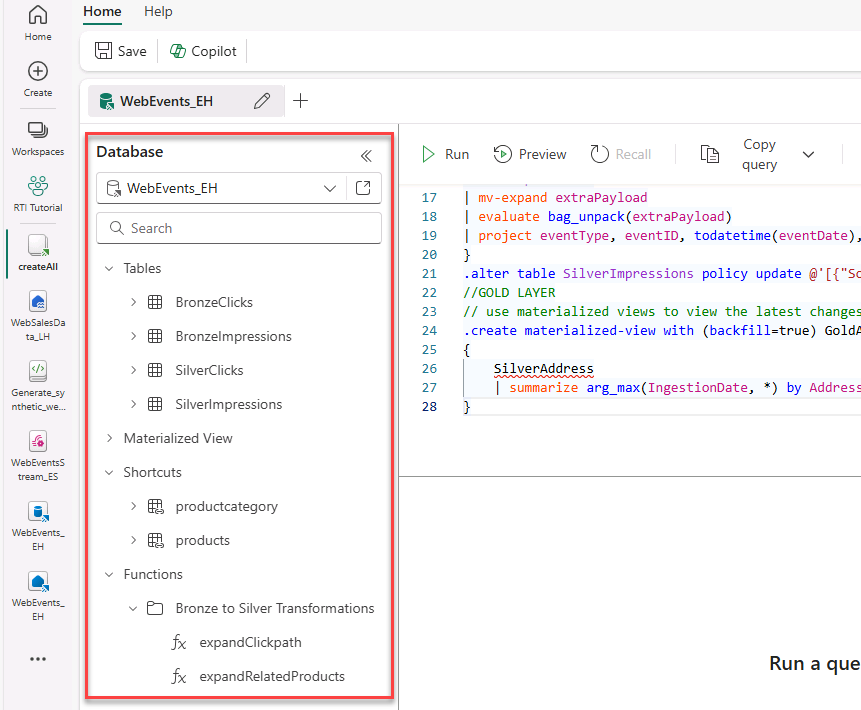
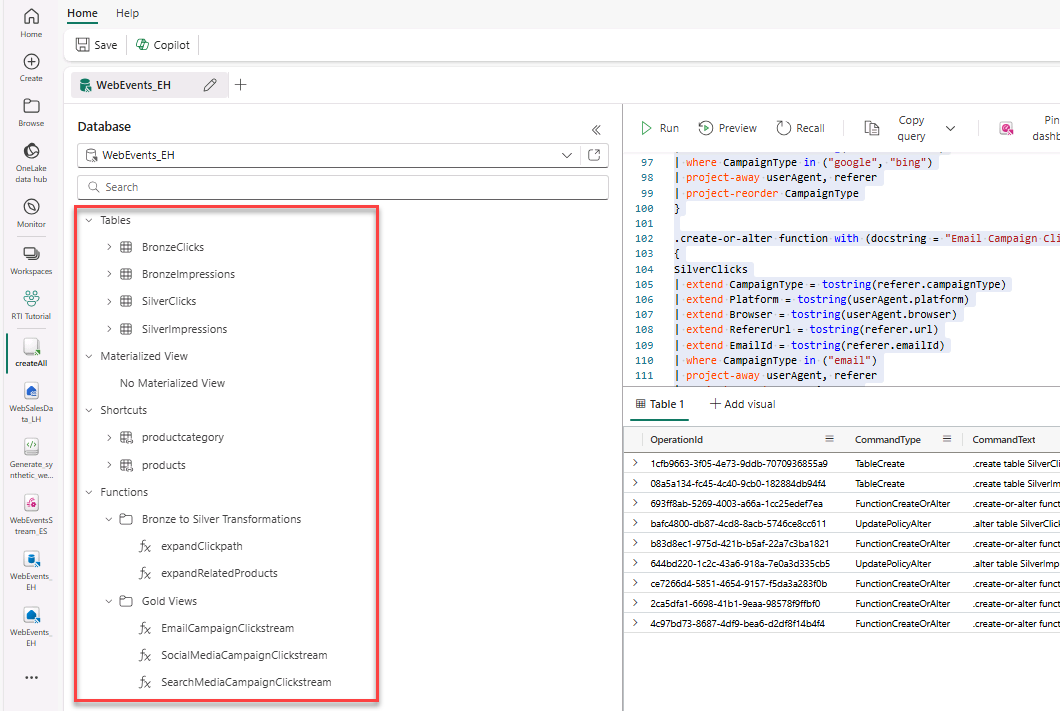
Implemented Devangs "breaking change" 😉

diff --git a/docs/workshop.md b/docs/workshop.md
@@ -721,9 +721,7 @@ In this task we will make the Eventhouse tables form the KQL Database available 
 
 ### 12. Build the KQL DB schema
 
-In this section we will create all the silver tables, functions, materialized-views, and enable update policies and in our Eventhouse KQL Database. Two of the tables (product and productCategory) are shortcuts to the lakehouse and the data is NOT being copied into our KQL Database.
-
-FIXME: Is this picture correct? Should the circle be at the KQL Database of the Eventhouse? What about the SQL Databases?
+In this section we will create all the silver tables, functions and enable update policies and in our Eventhouse KQL Database. Two of the tables (`product` and `productCategory`) are shortcuts to the lakehouse and the data is **NOT** being copied into our KQL Database.
 
 ![alt text](assets/fabrta71.png)
 
